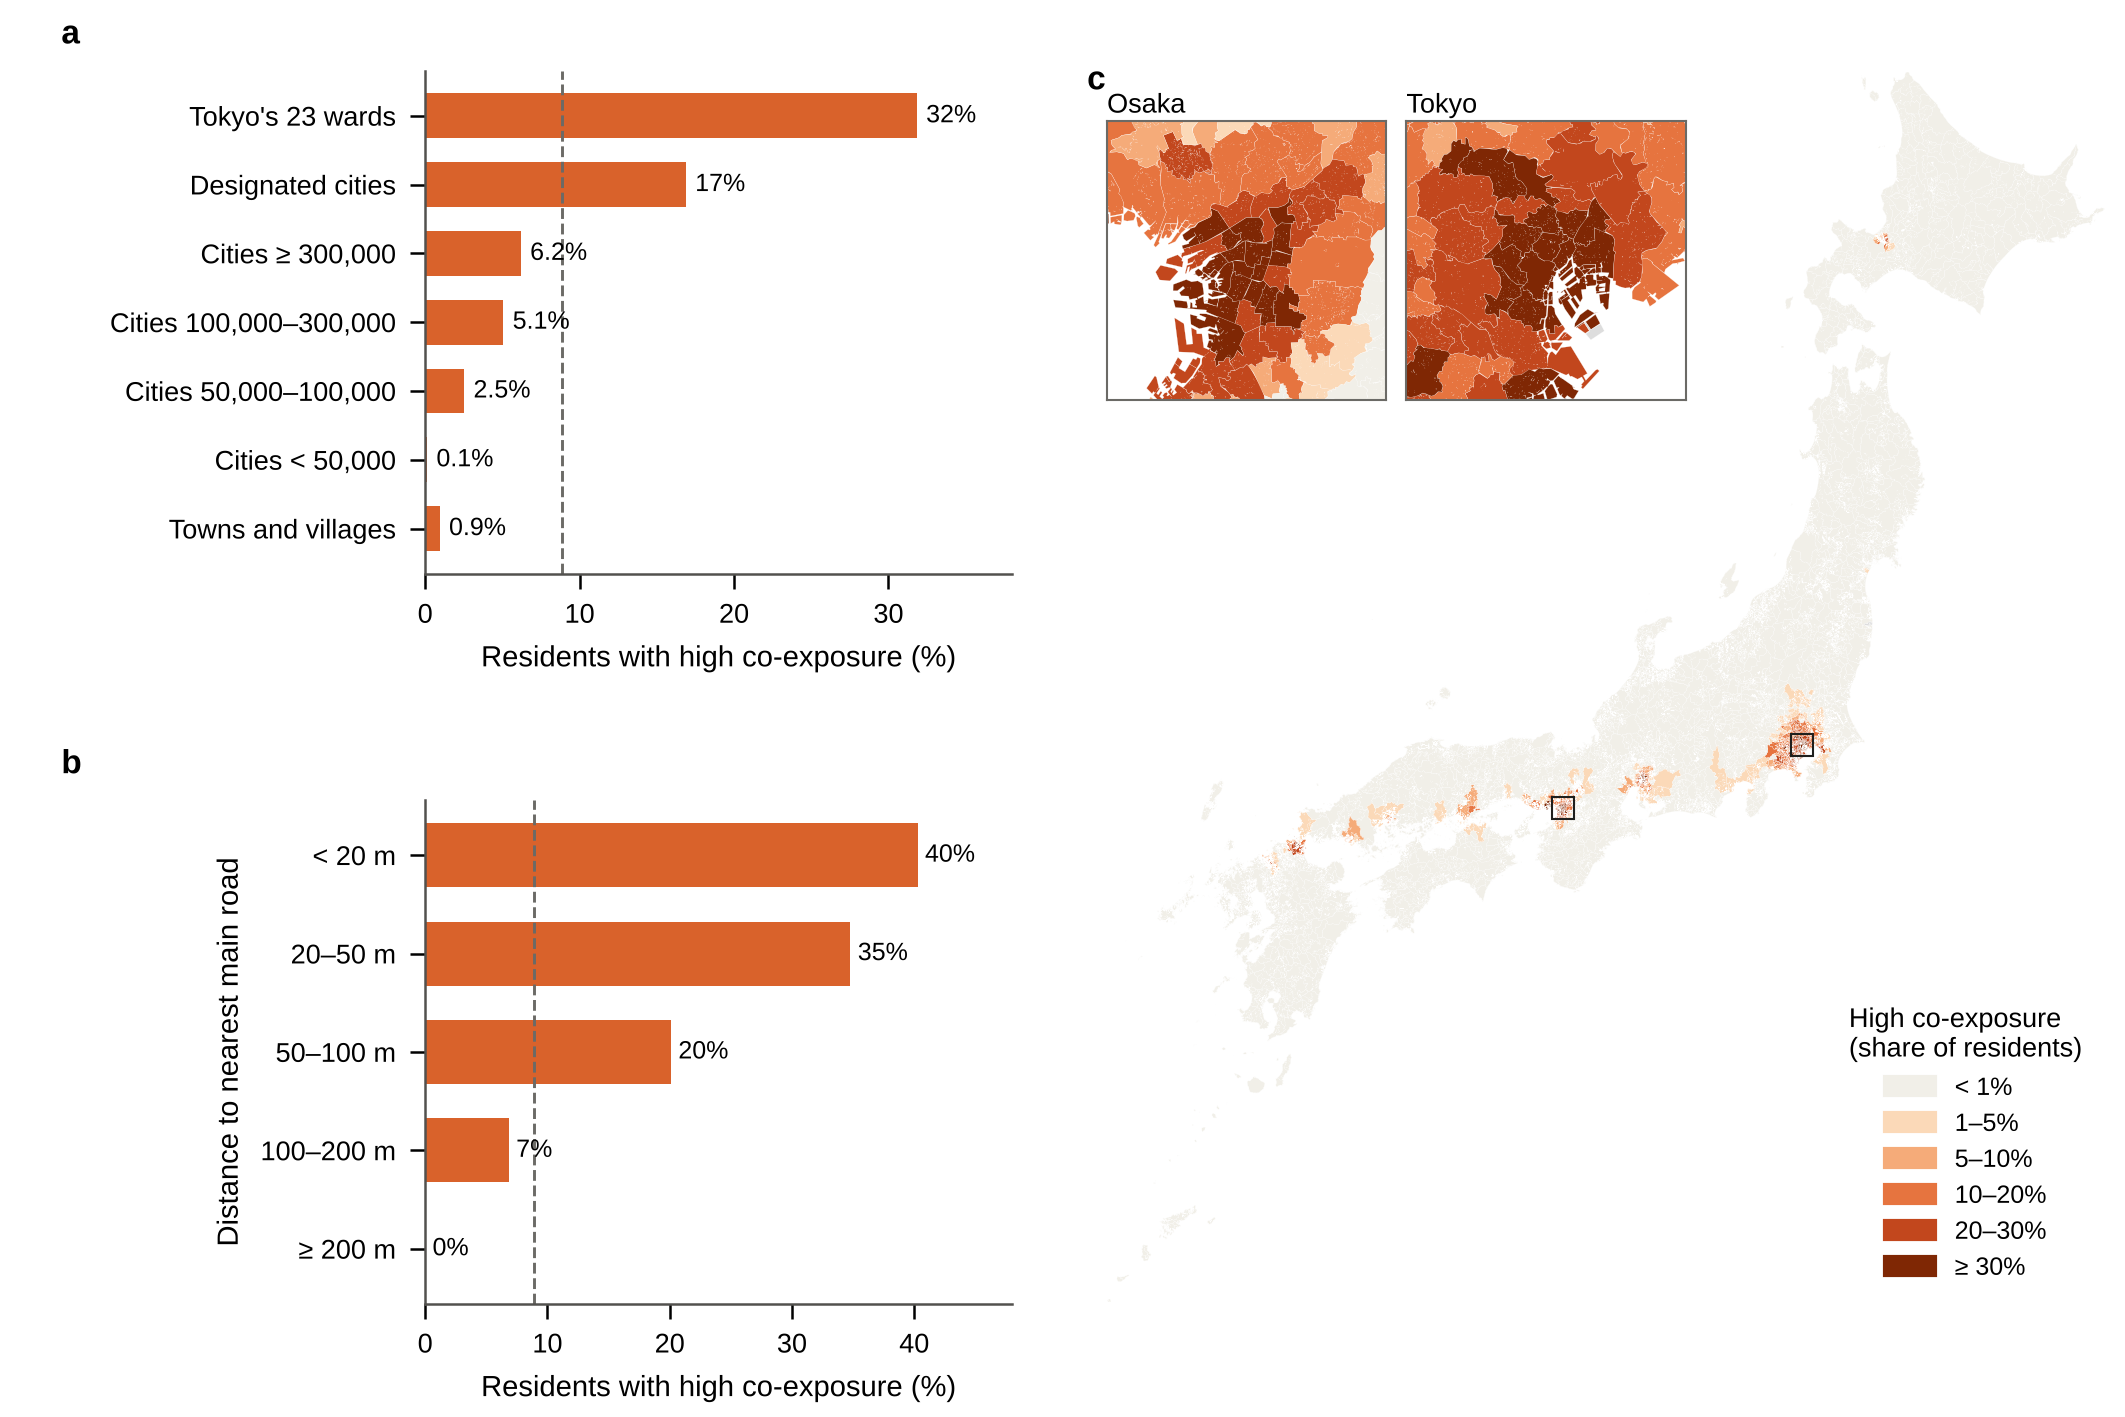
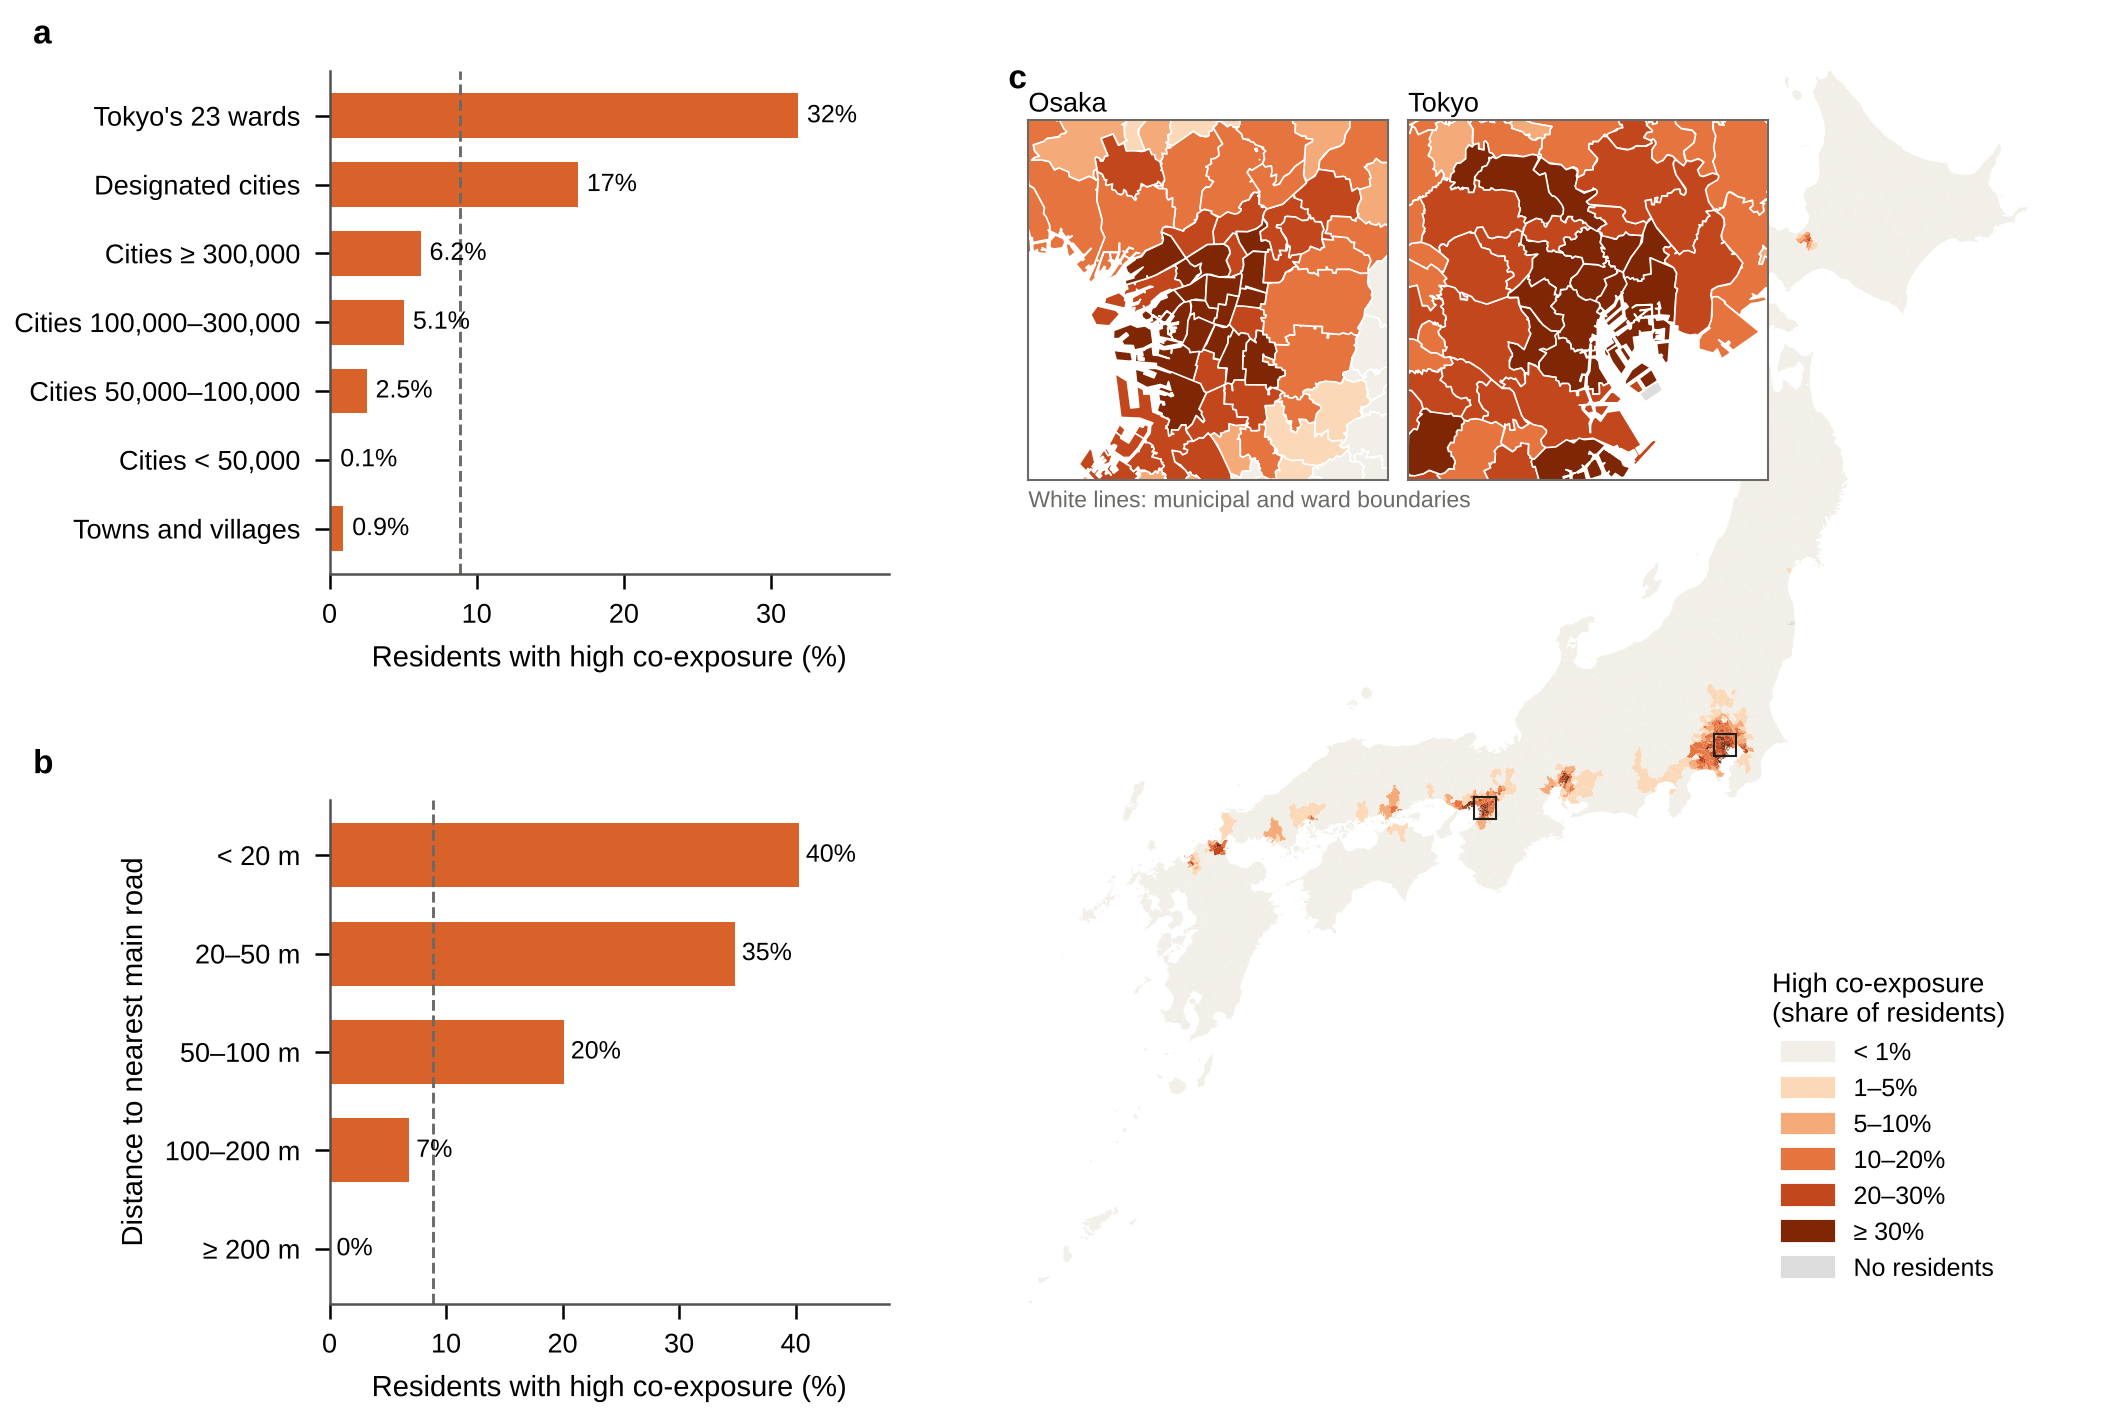
Figure 3: larger maps, no boundaries on the national map, boundary note and no-resident class

diff --git a/src/make_figures.py b/src/make_figures.py
@@ -131,13 +131,23 @@ dist = [('< 20 m', K['距離 <20 m の住民のうち二重暴露 %']), ('20–5
 M = R.groupby('muni').apply(lambda g: pd.Series({'pop': g.pop_w.sum(), 'dbl': 100 * (g.pop_w * g.dbl).sum() / g.pop_w.sum()}))
 G = gpd.read_file(BND).to_crs(6677)
 G = G.merge(M, left_on='muni', right_index=True, how='left')
+
+
+def fill_slivers(geom, max_area=1e5):
+    # drop interior rings under 10 ha: gaps left by dissolving census small areas, not features
+    parts = getattr(geom, 'geoms', [geom])
+    out = [sg.Polygon(p.exterior, [r for r in p.interiors if sg.Polygon(r).area >= max_area]) for p in parts]
+    return sg.MultiPolygon(out) if len(out) > 1 else out[0]
+
+
+G['geometry'] = G.geometry.apply(fill_slivers)
 miss = G.dbl.isna().sum()
 bins = [0, 1, 5, 10, 20, 30, 100]
 cmap = ListedColormap(['#f1efe8', '#fbd9b8', '#f5ab79', '#e6743f', '#c2471d', '#7f2704'])
 norm = BoundaryNorm(bins, cmap.N)
 
 fig = plt.figure(figsize=(180 * MM, 120 * MM))
-gs = fig.add_gridspec(2, 2, width_ratios=[1, 1.7], height_ratios=[1, 1], wspace=.12, hspace=.45, left=.2, right=.99, top=.95, bottom=.08)
+gs = fig.add_gridspec(2, 2, width_ratios=[1, 2.1], height_ratios=[1, 1], wspace=.06, hspace=.45, left=.155, right=.995, top=.95, bottom=.08)
 ax = fig.add_subplot(gs[0, 0])
 y = np.arange(len(T1))[::-1]
 ax.barh(y, T1['二重暴露%'], color=ORANGE, height=.65)
@@ -146,7 +156,7 @@ for yy, v in zip(y, T1['二重暴露%']):
 ax.axvline(NAT, color=INK2, lw=.7, ls='--')
 ax.set_yticks(y); ax.set_yticklabels([names[c] for c in T1.ctype])
 ax.set_xlabel('Residents with high co-exposure (%)'); ax.set_xlim(0, 38)
-panel(ax, 'a', -0.62)
+panel(ax, 'a', -0.53)
 ax = fig.add_subplot(gs[1, 0])
 y = np.arange(len(dist))[::-1]
 ax.barh(y, [v for _, v in dist], color=ORANGE, height=.65)
@@ -155,11 +165,11 @@ for yy, (_, v) in zip(y, dist):
 ax.axvline(NAT, color=INK2, lw=.7, ls='--')
 ax.set_yticks(y); ax.set_yticklabels([l for l, _ in dist])
 ax.set_ylabel('Distance to nearest main road'); ax.set_xlabel('Residents with high co-exposure (%)'); ax.set_xlim(0, 48)
-panel(ax, 'b', -0.62)
+panel(ax, 'b', -0.53)
 
 
-def draw(a, D):
-    D.plot(ax=a, column='dbl', cmap=cmap, norm=norm, linewidth=.05, edgecolor='#ffffff', missing_kwds={'color': '#dddddd'})
+def draw(a, D, lw=0):
+    D.plot(ax=a, column='dbl', cmap=cmap, norm=norm, linewidth=lw, edgecolor='#ffffff' if lw else 'none', missing_kwds={'color': '#dddddd'})
     a.set_axis_off()
 
 
@@ -169,19 +179,21 @@ draw(ax, G[~isl])
 xmin, ymin, xmax, ymax = G[~isl & ~G.muni.str.startswith('01')].total_bounds
 hx = G[G.muni.str.startswith('01')].total_bounds
 ax.set_xlim(xmin, max(xmax, hx[2])); ax.set_ylim(ymin, hx[3])
+insets = []
 H = 18000  # half-width of each enlarged map (m): both insets are 36 km squares at the same scale
-for (lab, ctr, pos) in [('Osaka', (135.50, 34.67), [0.0, 0.66, 0.28, 0.30]),
-                        ('Tokyo', (139.75, 35.67), [0.30, 0.66, 0.28, 0.30])]:
+for (lab, ctr, pos) in [('Osaka', (135.50, 34.67), [0.0, 0.60, 0.36, 0.36]),
+                        ('Tokyo', (139.75, 35.67), [0.38, 0.60, 0.36, 0.36])]:
     c = gpd.GeoSeries([sg.Point(*ctr)], crs=4326).to_crs(6677).iloc[0]
     bb = (c.x - H, c.y - H, c.x + H, c.y + H)
-    ia = ax.inset_axes(pos); draw(ia, G.cx[bb[0]:bb[2], bb[1]:bb[3]])
+    ia = ax.inset_axes(pos); insets.append(ia); draw(ia, G.cx[bb[0]:bb[2], bb[1]:bb[3]], lw=.4)
     ia.set_xlim(bb[0], bb[2]); ia.set_ylim(bb[1], bb[3]); ia.set_axis_on(); ia.set_xticks([]); ia.set_yticks([]); ia.set_xlabel(''); ia.set_ylabel(''); ia.set_anchor('N')
     for s in ia.spines.values():
         s.set_visible(True); s.set_color(INK2); s.set_linewidth(.5)
     ia.set_title(lab, fontsize=6.5, loc='left', pad=2)
     ax.add_patch(plt.Rectangle((bb[0], bb[1]), bb[2] - bb[0], bb[3] - bb[1], fill=False, ec=INK, lw=.5))
-h = [plt.Rectangle((0, 0), 1, 1, color=cmap(i)) for i in range(cmap.N)]
-ax.legend(h, ['< 1%', '1–5%', '5–10%', '10–20%', '20–30%', '≥ 30%'], title='High co-exposure\n(share of residents)',
+insets[0].text(0.0, -0.03, 'White lines: municipal and ward boundaries', transform=insets[0].transAxes, fontsize=5.5, color=INK2, va='top')
+h = [plt.Rectangle((0, 0), 1, 1, color=cmap(i)) for i in range(cmap.N)] + [plt.Rectangle((0, 0), 1, 1, color='#dddddd')]
+ax.legend(h, ['< 1%', '1–5%', '5–10%', '10–20%', '20–30%', '≥ 30%', 'No residents'], title='High co-exposure\n(share of residents)',
           loc='lower right', frameon=False, fontsize=6, title_fontsize=6.5)
 panel(ax, 'c', -0.02, 0.98)
 save(fig, 'fig3')
